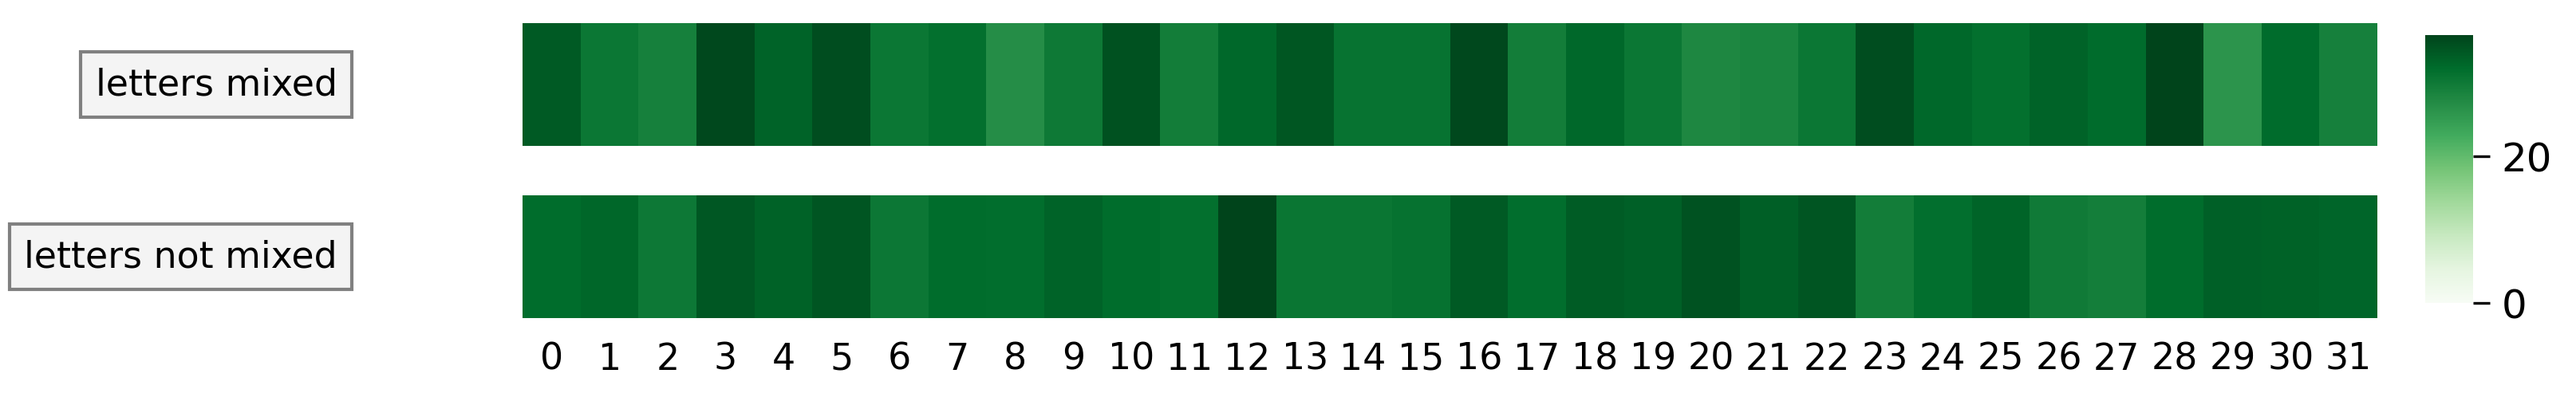
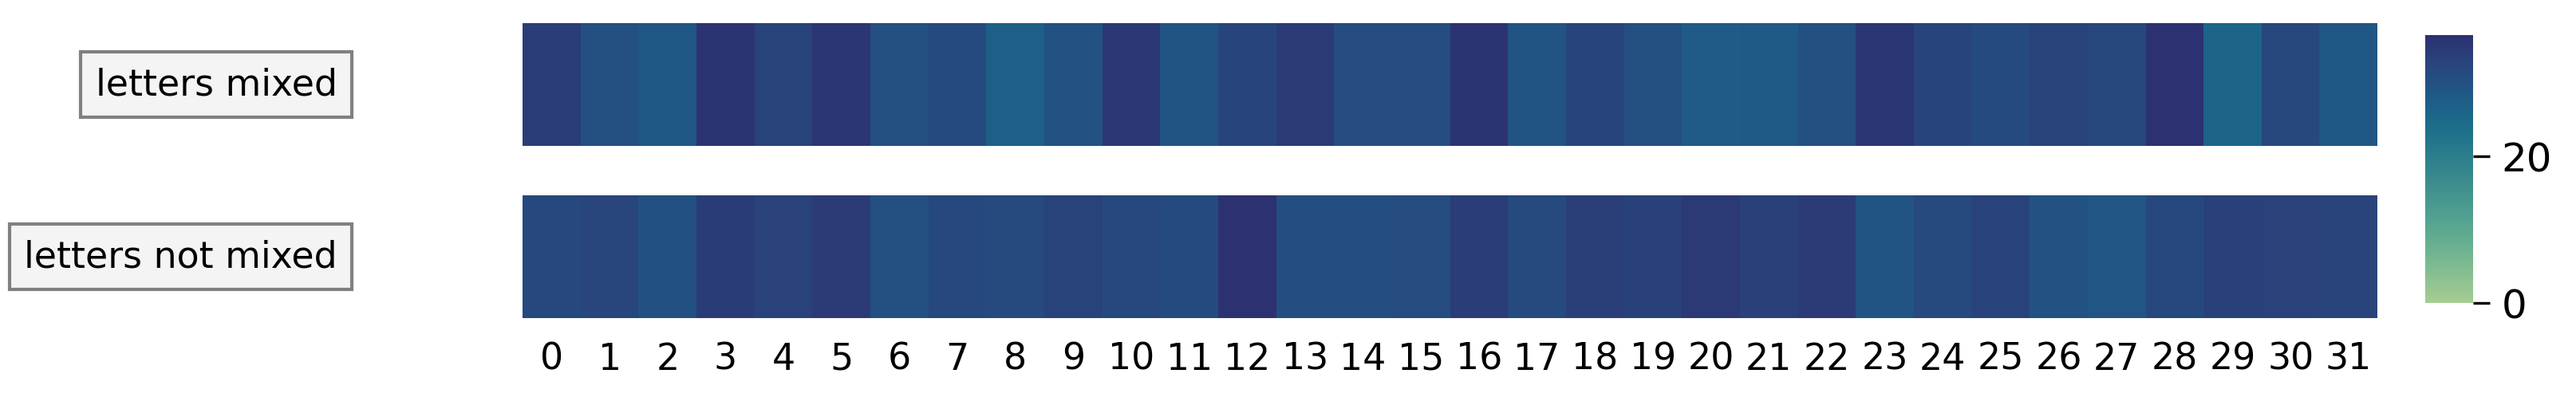
new colour

diff --git a/heatmap.py b/heatmap.py
@@ -20,12 +20,13 @@ file_paths = {
 
 num_plots = len(file_paths)
 
+# TWEAK 1: Reduced the height multiplier (from 1.8 to 0.8) to make stripes narrower
 fig, axes = plt.subplots(
     nrows=num_plots, 
     ncols=1, 
-    figsize=(10, 1.8 * num_plots),
+    figsize=(10, 0.8 * num_plots),
     sharex=True, 
-    gridspec_kw={'hspace': 0.3} 
+    gridspec_kw={'hspace': 0.4} 
 )
 
 cbar_ax = fig.add_axes([0.92, 0.15, 0.02, 0.7]) 
@@ -37,11 +38,13 @@ for i, (label_box, file_path) in enumerate(file_paths.items()):
     # 1. READ THE CSV
     df = pd.read_csv(file_path, index_col=0)
     
-    # 2. ROTATE THE DATA (Transpose rows to columns)
+    # 2. ROTATE THE DATA
     df = df.T
     
-    # 3. SCALE THE DATA (Convert 0.33 to 33.0 for the colorbar)
-    # This checks if your max value is 1.0 or less, and multiplies by 100 if true
+    # TWEAK 2: Force the X-axis columns to be sequential layer numbers (0, 1, 2...)
+    df.columns = range(len(df.columns))
+    
+    # 3. SCALE THE DATA
     if df.max().max() <= 1.0:
         df = df * 100
     
@@ -49,9 +52,9 @@ for i, (label_box, file_path) in enumerate(file_paths.items()):
     sns.heatmap(
         df, 
         ax=ax,             
-        cmap="Greens",     
+        cmap="crest",     
         vmin=0,            
-        vmax=100,          
+        # vmax=100,          
         cbar=(i == 0),     
         cbar_ax=cbar_ax if i == 0 else None,
         linewidths=0,
@@ -60,11 +63,13 @@ for i, (label_box, file_path) in enumerate(file_paths.items()):
     
     # Styling the Y-axis
     ax.set_ylabel('') 
-    ax.tick_params(axis='y', left=False, rotation=0, labelsize=11)
+    # TWEAK 3: Hide the leftover 'test' column name so the left side is completely clean
+    ax.tick_params(axis='y', left=False, labelleft=False)
     
     # Adding the Left Box Label
+    # Nudged x to -0.1 so it sits nicely next to the narrower heatmap
     ax.text(
-        x=-0.25, 
+        x=-0.1, 
         y=0.5,   
         s=label_box, 
         transform=ax.transAxes,
